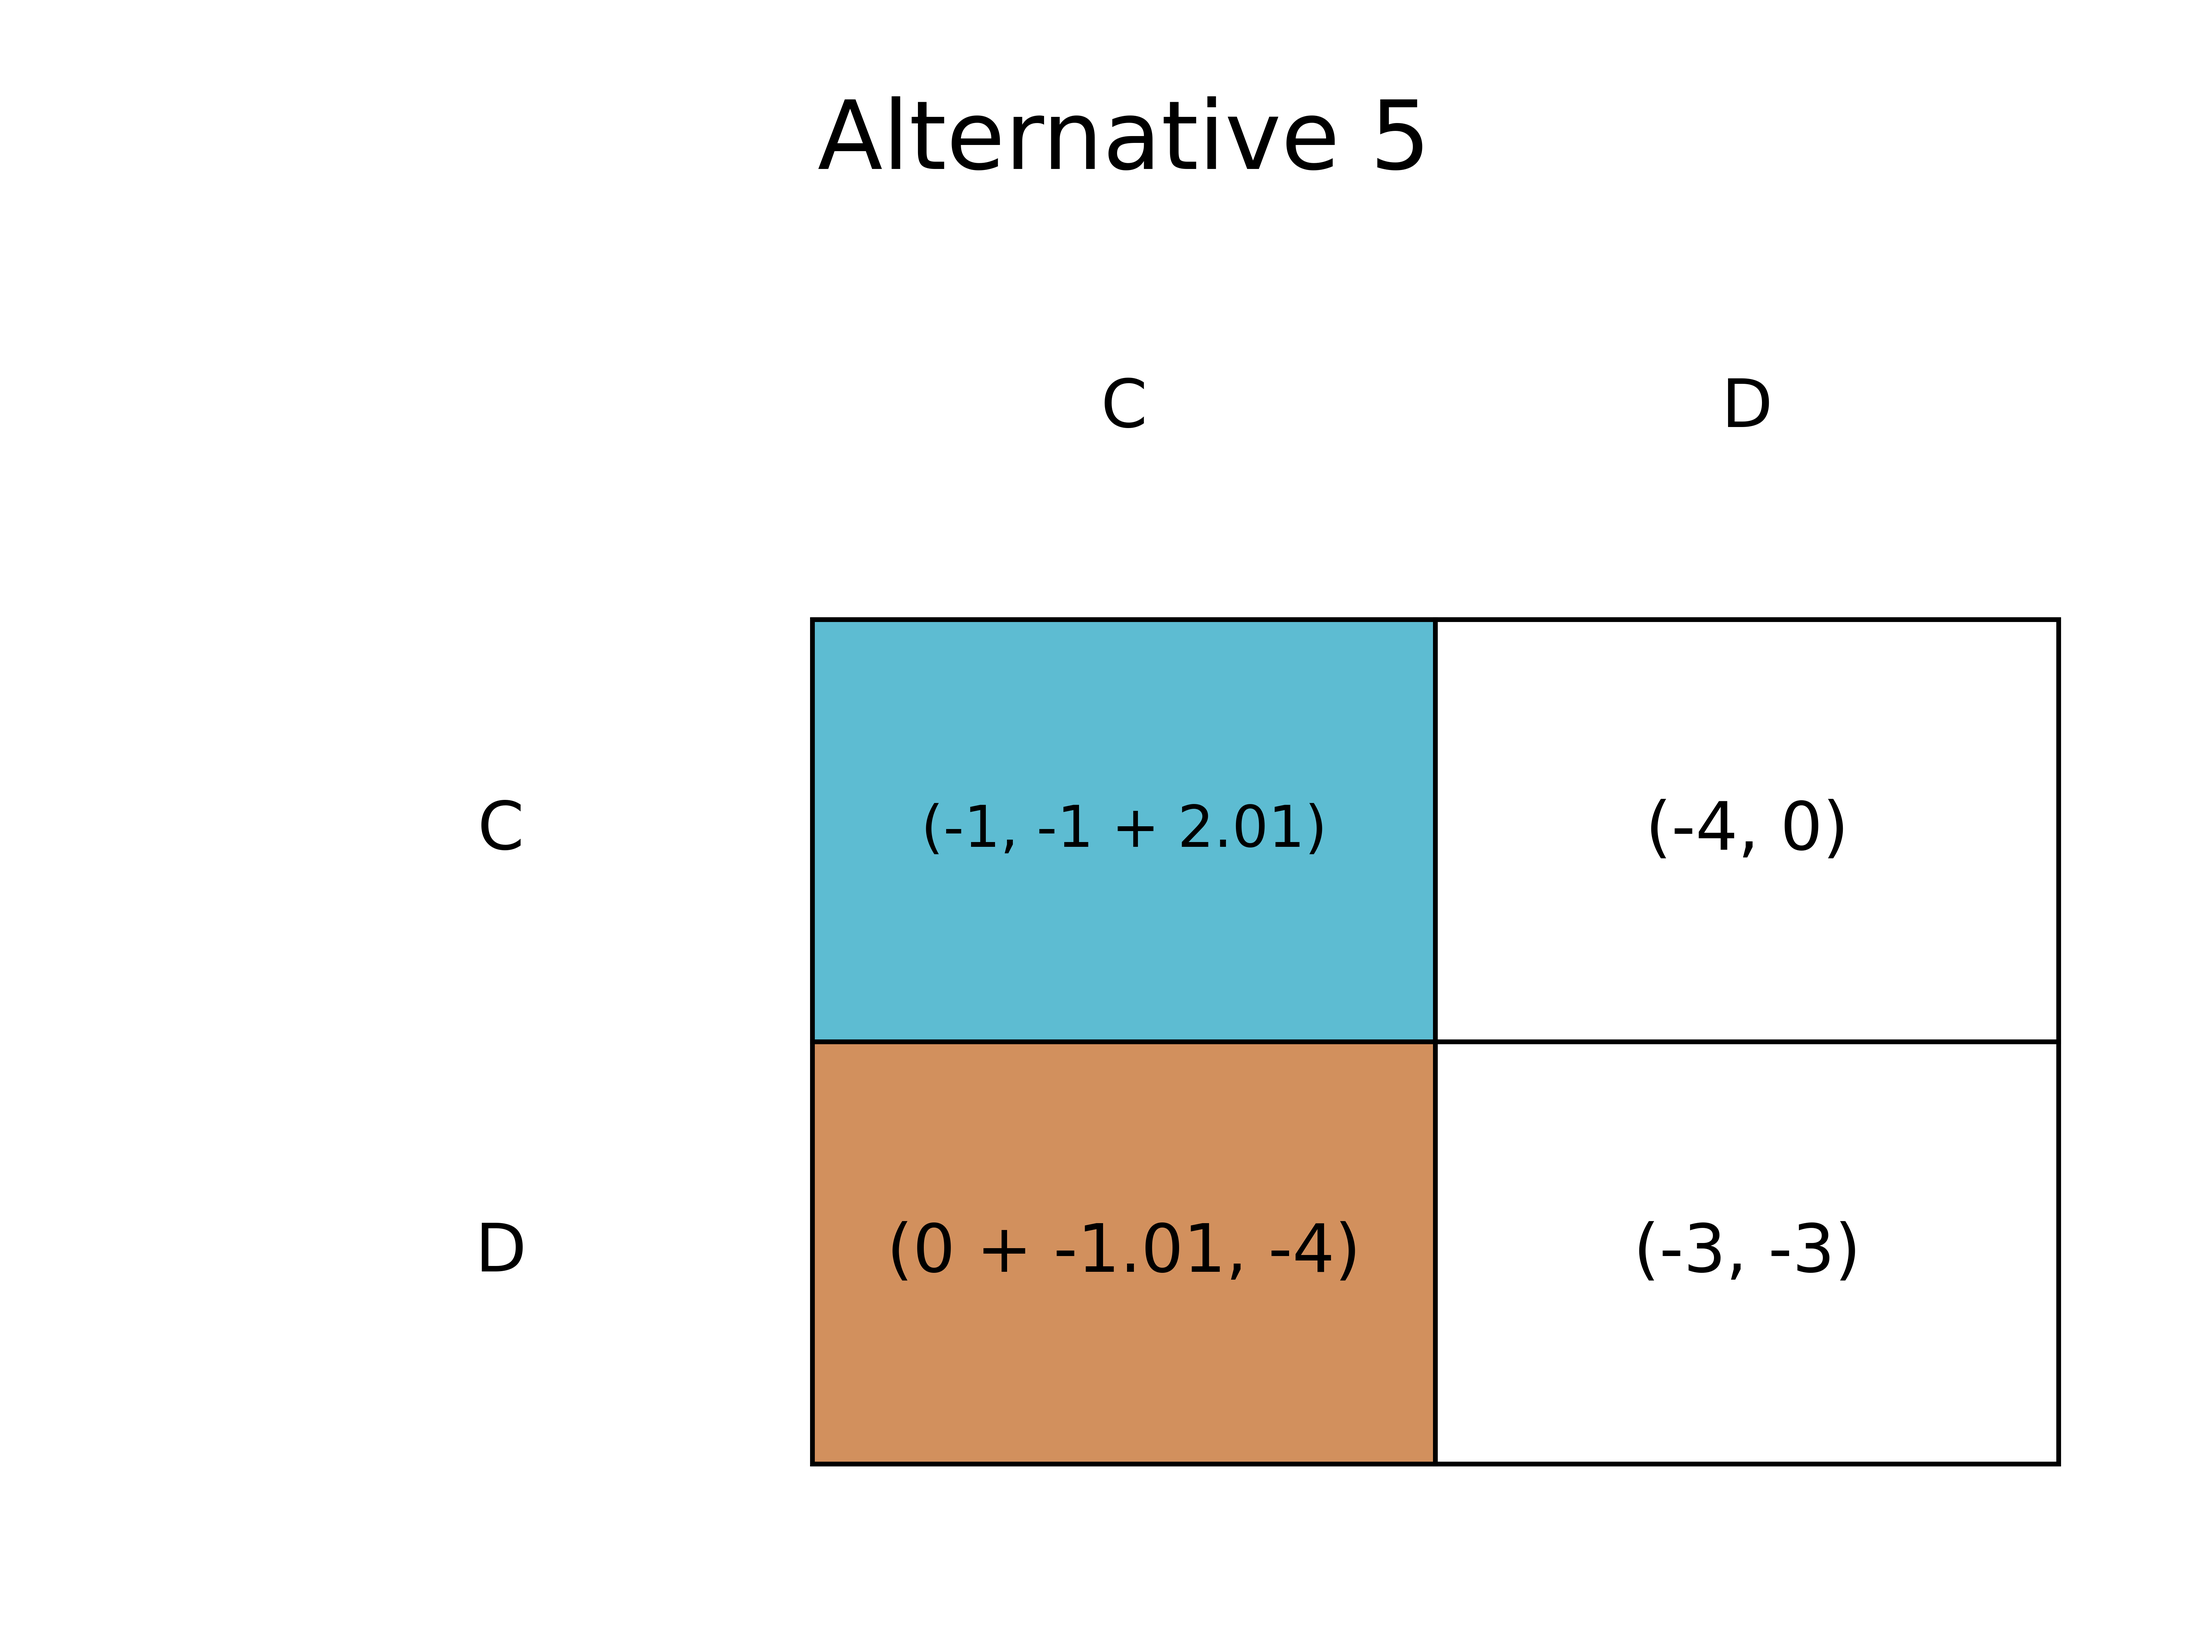
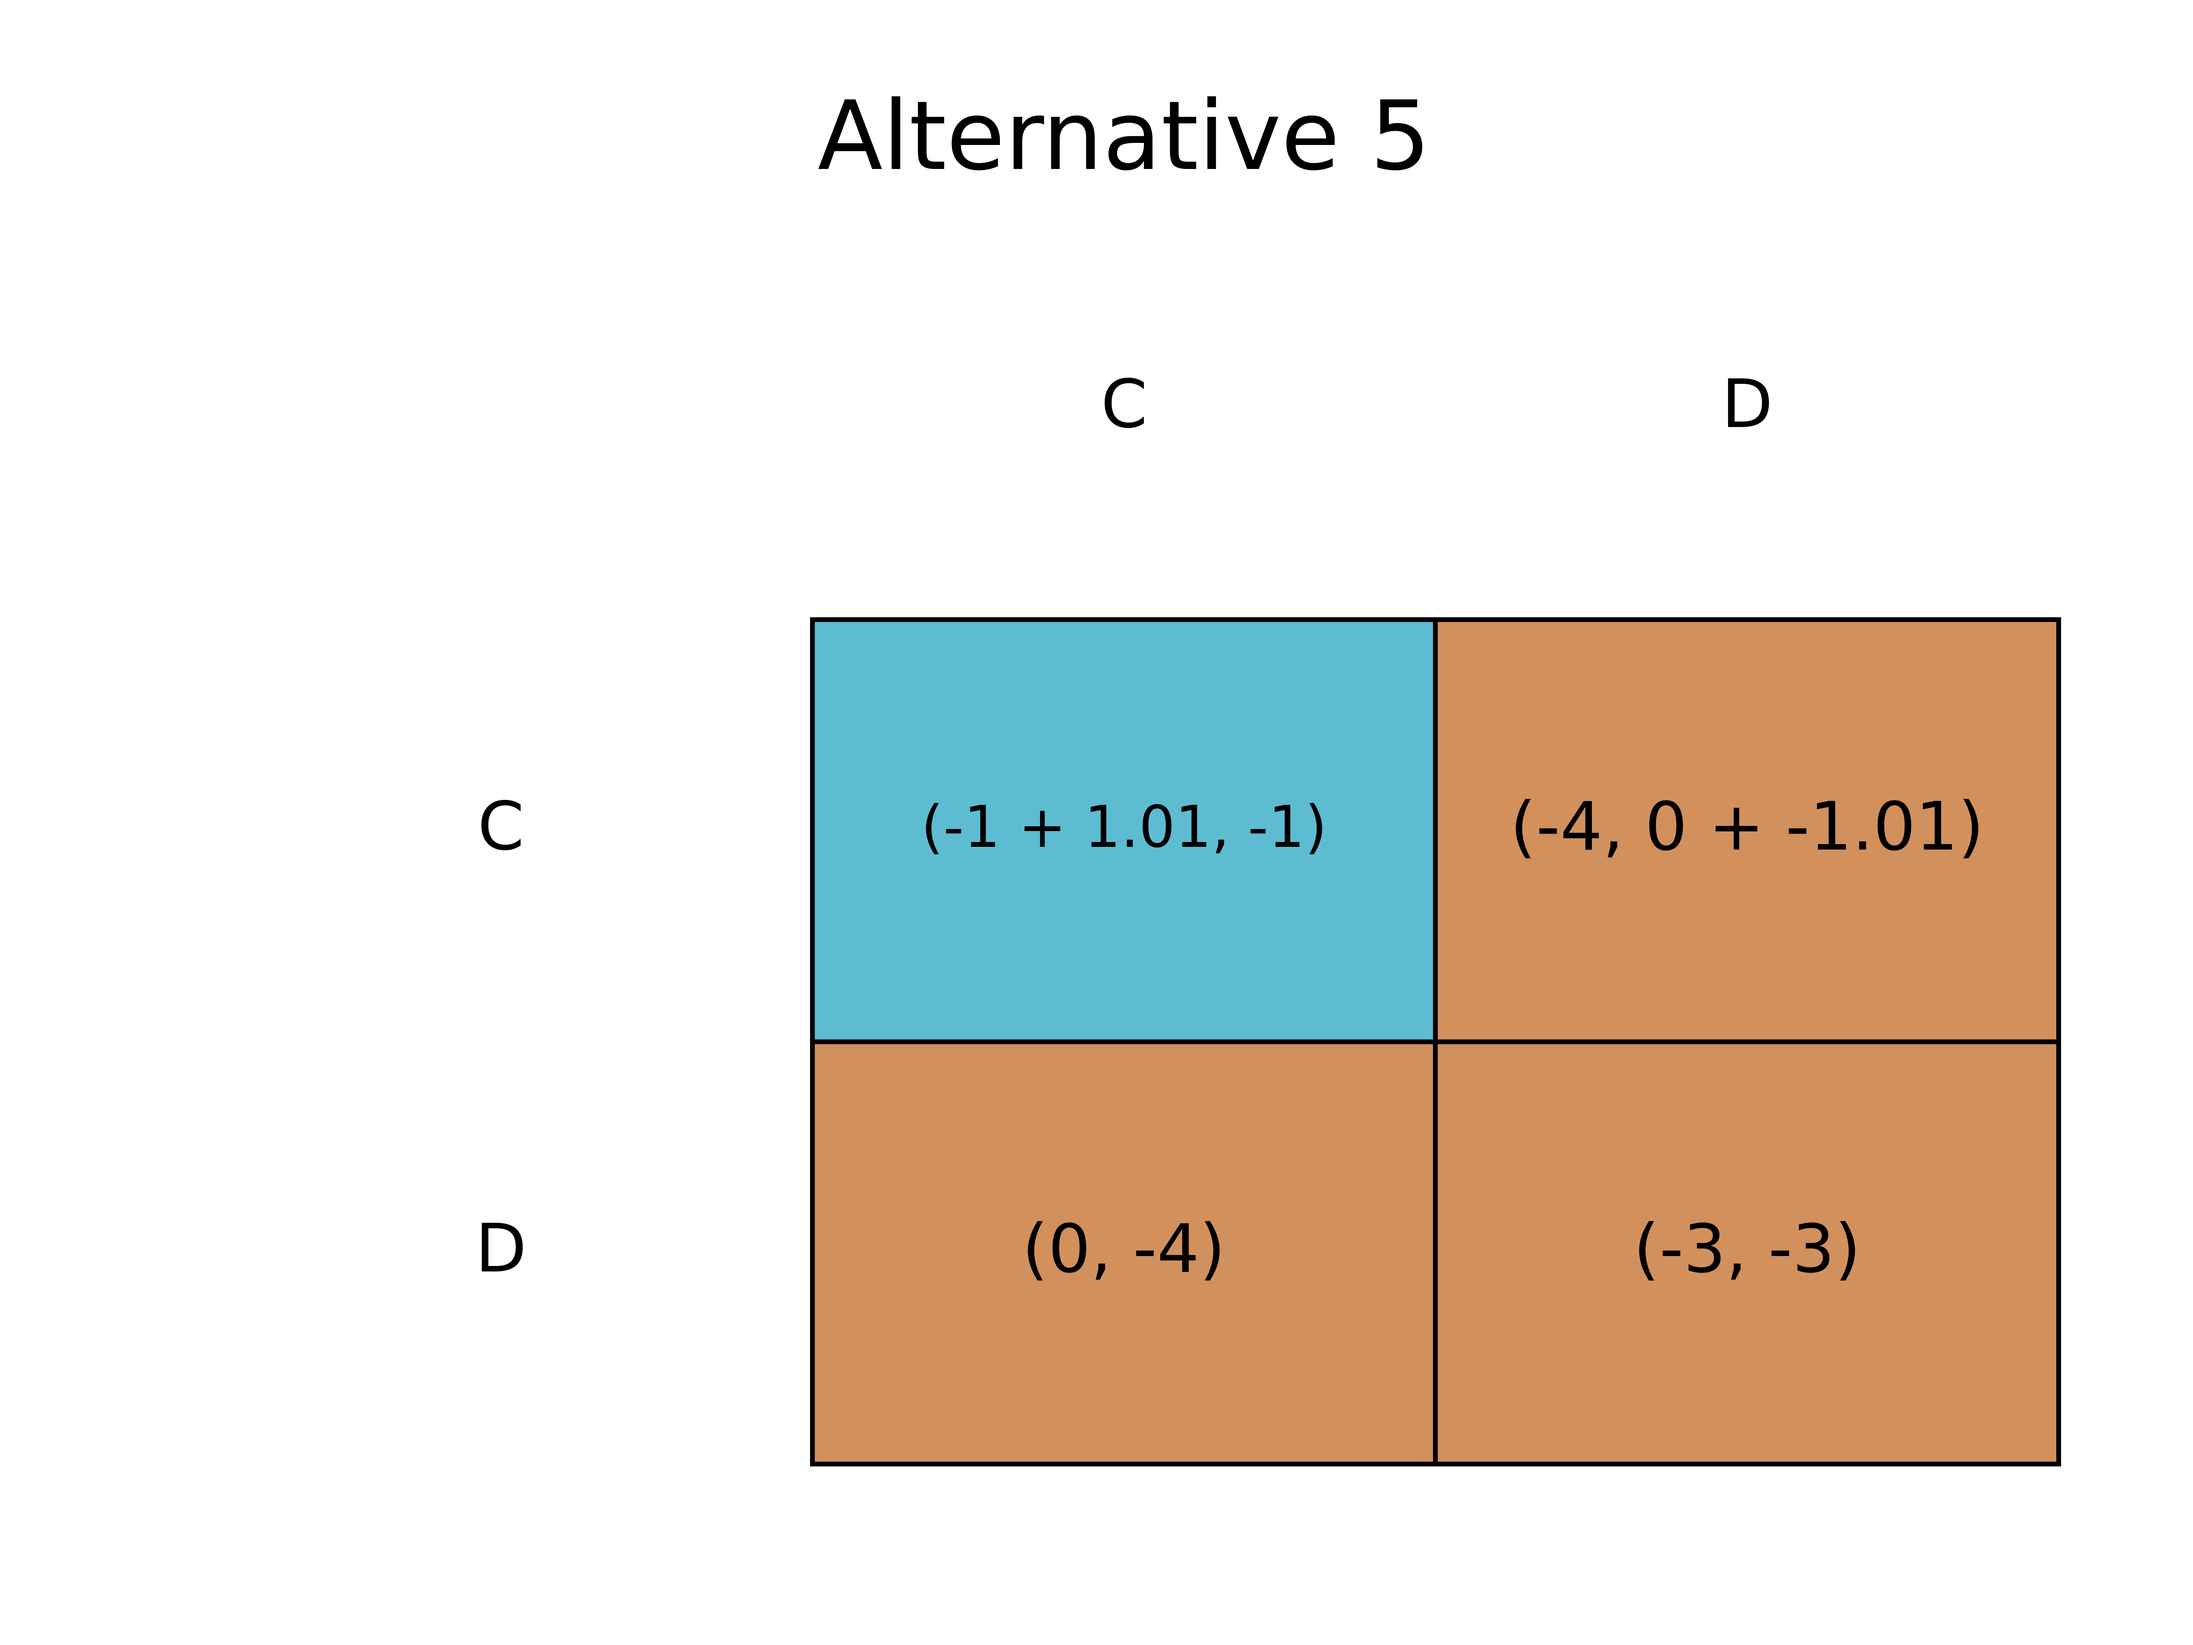
new formulations: some bugs

diff --git a/Ali_codes/GAMETES/NashEqFinder.py b/Ali_codes/GAMETES/NashEqFinder.py
@@ -1090,20 +1090,29 @@ class NashEqFinder(object):
         # you can use the big-M approach too, i.e., replaced them with -M and 
         # M, respectively. 
 
-
+        
         # Adding new attributes to self
         self.current_variables = copy.deepcopy(variables_names)
         self.current_binary_variables = []
         self.current_binary_constraints = []
         self.current_y_binary_variables = []
-        self.current_y_prime_binary_variables = []
         self.current_y_binary_variables_optlang = []
-        self.current_y_prime_binary_variables_optlang = []
         self.current_primals = {}
         for var_name, var in self.optModel.variables.items():
             # print(var_name, "=", var.primal)
             self.current_variables.append(var_name)
             self.current_primals[var_name] = var.primal
+
+        # adding a binary variable for each α
+        for var_name, var_primal in self.current_primals.items():
+            a = model.variables[var_name]
+            str_index_y_a = var_name + "_binary" + f"_ya" # no iteration needed in this method 
+            y_a = optlang.Variable(str_index_y_a, lb=0, type='binary', problem=model)
+            model.add(y_a)
+            self.current_binary_variables.append(str_index_y_a)
+            # Add the binary y variables to the list of binary variables
+            self.current_y_binary_variables.append(str_index_y_a)
+            self.current_y_binary_variables_optlang.append(y_a)
 
         # For iteration = 1 to 10
         for iteration in range(5):
@@ -1111,123 +1120,72 @@ class NashEqFinder(object):
             # Elie on 1/27/2023
             print(f"\n\n\n----iteration {iteration + 1}----\n\n\n")
             # print(f"----removing binary variables and constrains to start anew----\n")
-            self.current_variables = [e for e in self.current_variables if e not in (self.current_binary_variables + self.current_y_binary_variables + self.current_y_prime_binary_variables)]
+            self.current_variables = [e for e in self.current_variables if e not in (self.current_binary_variables + self.current_y_binary_variables)]
             print("self.current_variables for iteration", iteration+1, ":", self.current_variables)
             for key_to_remove in self.current_binary_variables:
-                del self.current_primals[key_to_remove]
+                if key_to_remove in self.current_primals:
+                    del self.current_primals[key_to_remove]
+                # del self.current_primals[key_to_remove]
             # On june 20
             epsilon = 1
             ub = 1000
             lb = -1000 
-            # print(f"Binary variablessss before iteration {iteration+1}:", self.current_binary_variables)
             for var_name, var_primal in self.current_primals.items():
                 # Didn't work without it, which is weird
                 # Check if the variable optimal is positive and if it is not
                 # a binary variable
-                if var_primal > 0 and var_name not in (self.current_binary_variables + self.current_y_binary_variables + self.current_y_prime_binary_variables):
-                    a_opt = var_primal
-                    # print(f'a_opt (which is variable {var_name}) for iteration {iteration+1} is', a_opt)
-                    a = model.variables[var_name]
-                    str_index_y_a = var_name + "_binary" + f"_ya_{iteration}"
-                    str_index_y_a_prime = var_name + "_binary" + f"_ya_prime_{iteration}"
-                    y_a = optlang.Variable(str_index_y_a, lb=0, type='binary', problem=model)
-                    y_a_prime = optlang.Variable(str_index_y_a_prime, lb=0, type='binary', problem=model)
-                    model.add(y_a)
-                    model.add(y_a_prime)
-                    # self.current_variables.append(str_index)
-                    self.current_binary_variables.append(str_index_y_a)
-                    self.current_binary_variables.append(str_index_y_a_prime)
-
-                    # Add the binary y variables to the list of binary variables
-                    self.current_y_binary_variables.append(str_index_y_a)
-                    self.current_y_prime_binary_variables.append(str_index_y_a_prime)
-
-                    self.current_y_binary_variables_optlang.append(y_a)
-                    self.current_y_prime_binary_variables_optlang.append(y_a_prime)
-
+                if var_primal > 0 and var_name not in (self.current_binary_variables + self.current_y_binary_variables):
                     # I will introduce two non-linear constraints:
-                    # 1. a <= (1-y_a)[(1-y_a_prime)(a_opt-epsilon) + y_a_prime*ub] + y_a*a_opt
-                    # 2. a >= (1-y_a)[y_a_prime(a_opt+epsilon) + (1-y_a_prime)lb] + y_a*a_opt
+                    # Define a binary variable y_α such that if y_α=1, then α≠0
+                    # and if y=0, then α=0 in the previous solution (note that 
+                    # here α could be either α^+ or α^-). This can be imposed 
+                    # using the following cosntrinat
+                    #               ϵy_α+(-M)(1-y_α)≤α≤(+M)y_α
+                    # Note that according to this constaint: 
+                    # y_α=1→α≠0
+                    # y_α=0→α=0
 
-                    # Turn the constraints into linear constraints
-                    # introduce the third binary variable z_a, and the constraints:
-                    # z_a <= y_a
-                    # z_a <= y_a_prime
-                    # z_a >= y_a + y_a_prime - 1
+                    # Keep in mind that:
+                    #     Here, ϵ is a small positive value (e.g., 10e-5)
+                    #     Here we define binary variables for each α^+ or α^- 
+                    #     only once, i..e, we do not define new binary variales 
+                    #     in each iteration. 
+                    # For the next solution, we want at least one perturbed 
+                    # payoff value to be different from the solution that we 
+                    # had before. We can easily impose this by using the 
+                    # following constraint:
+                    #              ∑_(α∈NZ)▒y_α ≤(card(NZ_α)-1)_+
 
-                    # Hence, constraints 1 becomes:
-                    # a <= [(1-y_a_prime)(a_opt-epsilon) + y_a_prime*ub] - [(y_a - z_a)(a_opt - epsilon) + z_a*ub] + y_a*a_opt
-                    # a >= [(y_a_prime)(a_opt+epsilon) + (1-y_a_prime)lb] - [z_a*(a_opt + epsilon) + (y_a - z_a)*lb] + y_a*a_opt
+                    # get the binary variable y_α
+                    y_a = model.variables[var_name + "_binary" + f"_ya"]
 
-                    # introduce the third binary variable z_a, and the constraints:
-                    str_index_z_a = var_name + "_binary" + f"_za_{iteration}"
-                    z_a = optlang.Variable(str_index_z_a, lb=0, type='binary', problem=model)
-                    model.add(z_a)
-                    self.current_binary_variables.append(str_index_z_a)
-
-                    # z_a <= y_a
-                    c_z_a_y_a = optlang.Constraint(
-                            y_a - z_a,
-                            lb=0
+                    # ϵy_α+(-M)(1-y_α)≤α≤(+M)y_α
+                    # ϵy_α+(-M)(1-y_α)≤α
+                    c_1 = optlang.Constraint(
+                            epsilon * y_a + (-ub) * (1 - y_a) - a,
+                            ub=0
                         )
-                    # z_a <= y_a_prime
-                    c_z_a_y_a_prime = optlang.Constraint(
-                            y_a_prime - z_a,
-                            lb=0
-                        )
-                    # z_a >= y_a + y_a_prime - 1
-                    c_z_a_y_a_y_a_prime = optlang.Constraint(
-                            z_a - y_a - y_a_prime + 1,
-                            lb=0
-                        )   
-
-                    # Hence, constraints 1 becomes:
-                    # a <= [(1-y_a_prime)(a_opt-epsilon) + y_a_prime*ub] - [(y_a - z_a)(a_opt - epsilon) + z_a*ub] + y_a*a_opt
-                    c1 = optlang.Constraint(
-                            (1 - y_a_prime) * (a_opt - epsilon) + y_a_prime * ub - (y_a - z_a) * (a_opt - epsilon) - z_a * ub + y_a * a_opt - a,
-                            lb = 0
-                        )
-                    # And constraint 2 becomes:
-                    # a >= [(y_a_prime)(a_opt+epsilon) + (1-y_a_prime)lb] - [z_a*(a_opt + epsilon) + (y_a - z_a)*lb] + y_a*a_opt
-                    c2 = optlang.Constraint(
-                            a - ((y_a_prime) * (a_opt + epsilon) + (1 - y_a_prime) * lb - z_a * (a_opt + epsilon) - (y_a - z_a) * lb + y_a * a_opt),
-                            lb=0
-                        )
-                    # y_a_prime <= 1 - y_a
-                    c3 = optlang.Constraint(
-                            1 - y_a - y_a_prime,
-                            lb=0
+                    # α≤(+M)y_α
+                    c_2 = optlang.Constraint(
+                            a - ub * y_a,
+                            ub=0
                         )
                     
-
-                    
-
-                    self.current_binary_constraints.append(c1)
-                    self.current_binary_constraints.append(c2)
-                    self.current_binary_constraints.append(c3)
-                    # self.current_binary_constraints.append(c4)
-                    self.current_binary_constraints.append(c_z_a_y_a)
-                    self.current_binary_constraints.append(c_z_a_y_a_prime)
-                    self.current_binary_constraints.append(c_z_a_y_a_y_a_prime)
-
-                    model.add(c1)
-                    model.add(c2)
-                    model.add(c3)
-                    # model.add(c4)
-                    model.add(c_z_a_y_a)
-                    model.add(c_z_a_y_a_prime)
-                    model.add(c_z_a_y_a_y_a_prime)
-
+                    # Add the constraints to the model
+                    self.current_binary_constraints.append(c_1)
+                    self.current_binary_constraints.append(c_2)
+                    model.add(c_1)
+                    model.add(c_2)
 
             # let NZ_a be the cardinality of the set of non-zero variables
-            # \sum y_a <= NZ_a - 1
+            # ∑_(α∈NZ)▒y_α ≤(card(NZ_α)-1)_
             NZ_a = 0
             print("Calculating NZ_a")
             for var_name, var_primal in self.current_primals.items():
-                print(var_name, var_primal)
-                if (var_primal > 0) and (var_name not in (self.current_binary_variables + self.current_y_binary_variables + self.current_y_prime_binary_variables)):
+                # print(var_name, var_primal)
+                if (var_primal > 0) and (var_name not in (self.current_binary_variables + self.current_y_binary_variables)):
                     NZ_a += 1
-            print()
+            print("NZ_a", NZ_a, "\n")
             # print("self.current_y_binary_variables", self.current_y_binary_variables)
             # print("self.current_binary_variables", self.current_binary_variables)
             # print("self.current_variables", self.current_variables)
@@ -1244,7 +1202,7 @@ class NashEqFinder(object):
                 # a binary variable
                 if var_primal > 0 and var_name not in (self.current_binary_variables + self.current_y_binary_variables):
                     # get the binary variable y_α
-                    y_a = model.variables[var_name + "_binary" + f"_ya_{iteration}"]
+                    y_a = model.variables[var_name + "_binary" + f"_ya"]
                     expression -= y_a
                 # check
 
@@ -1299,8 +1257,17 @@ class NashEqFinder(object):
             for var_name, var in self.optModel.variables.items():
                 print(var_name, "=", var)
             for var_name, var in self.optModel.variables.items():
-                print(var_name, "=")
+                print(var_name, "=", var.primal)
                 self.current_primals[var_name] = var.primal
+
+
+            changed_binary_variables = []
+            for var_name, var_primal in self.current_primals.items():
+                if var_name in self.current_binary_variables:
+                    if var_primal > 0:
+                        changed_binary_variables.append(var_name)
+
+            print("changed_binary_variables for iteration", iteration + 1, "is:", changed_binary_variables)
 
             
             # with open(f"log2.txt", "a") as f:
